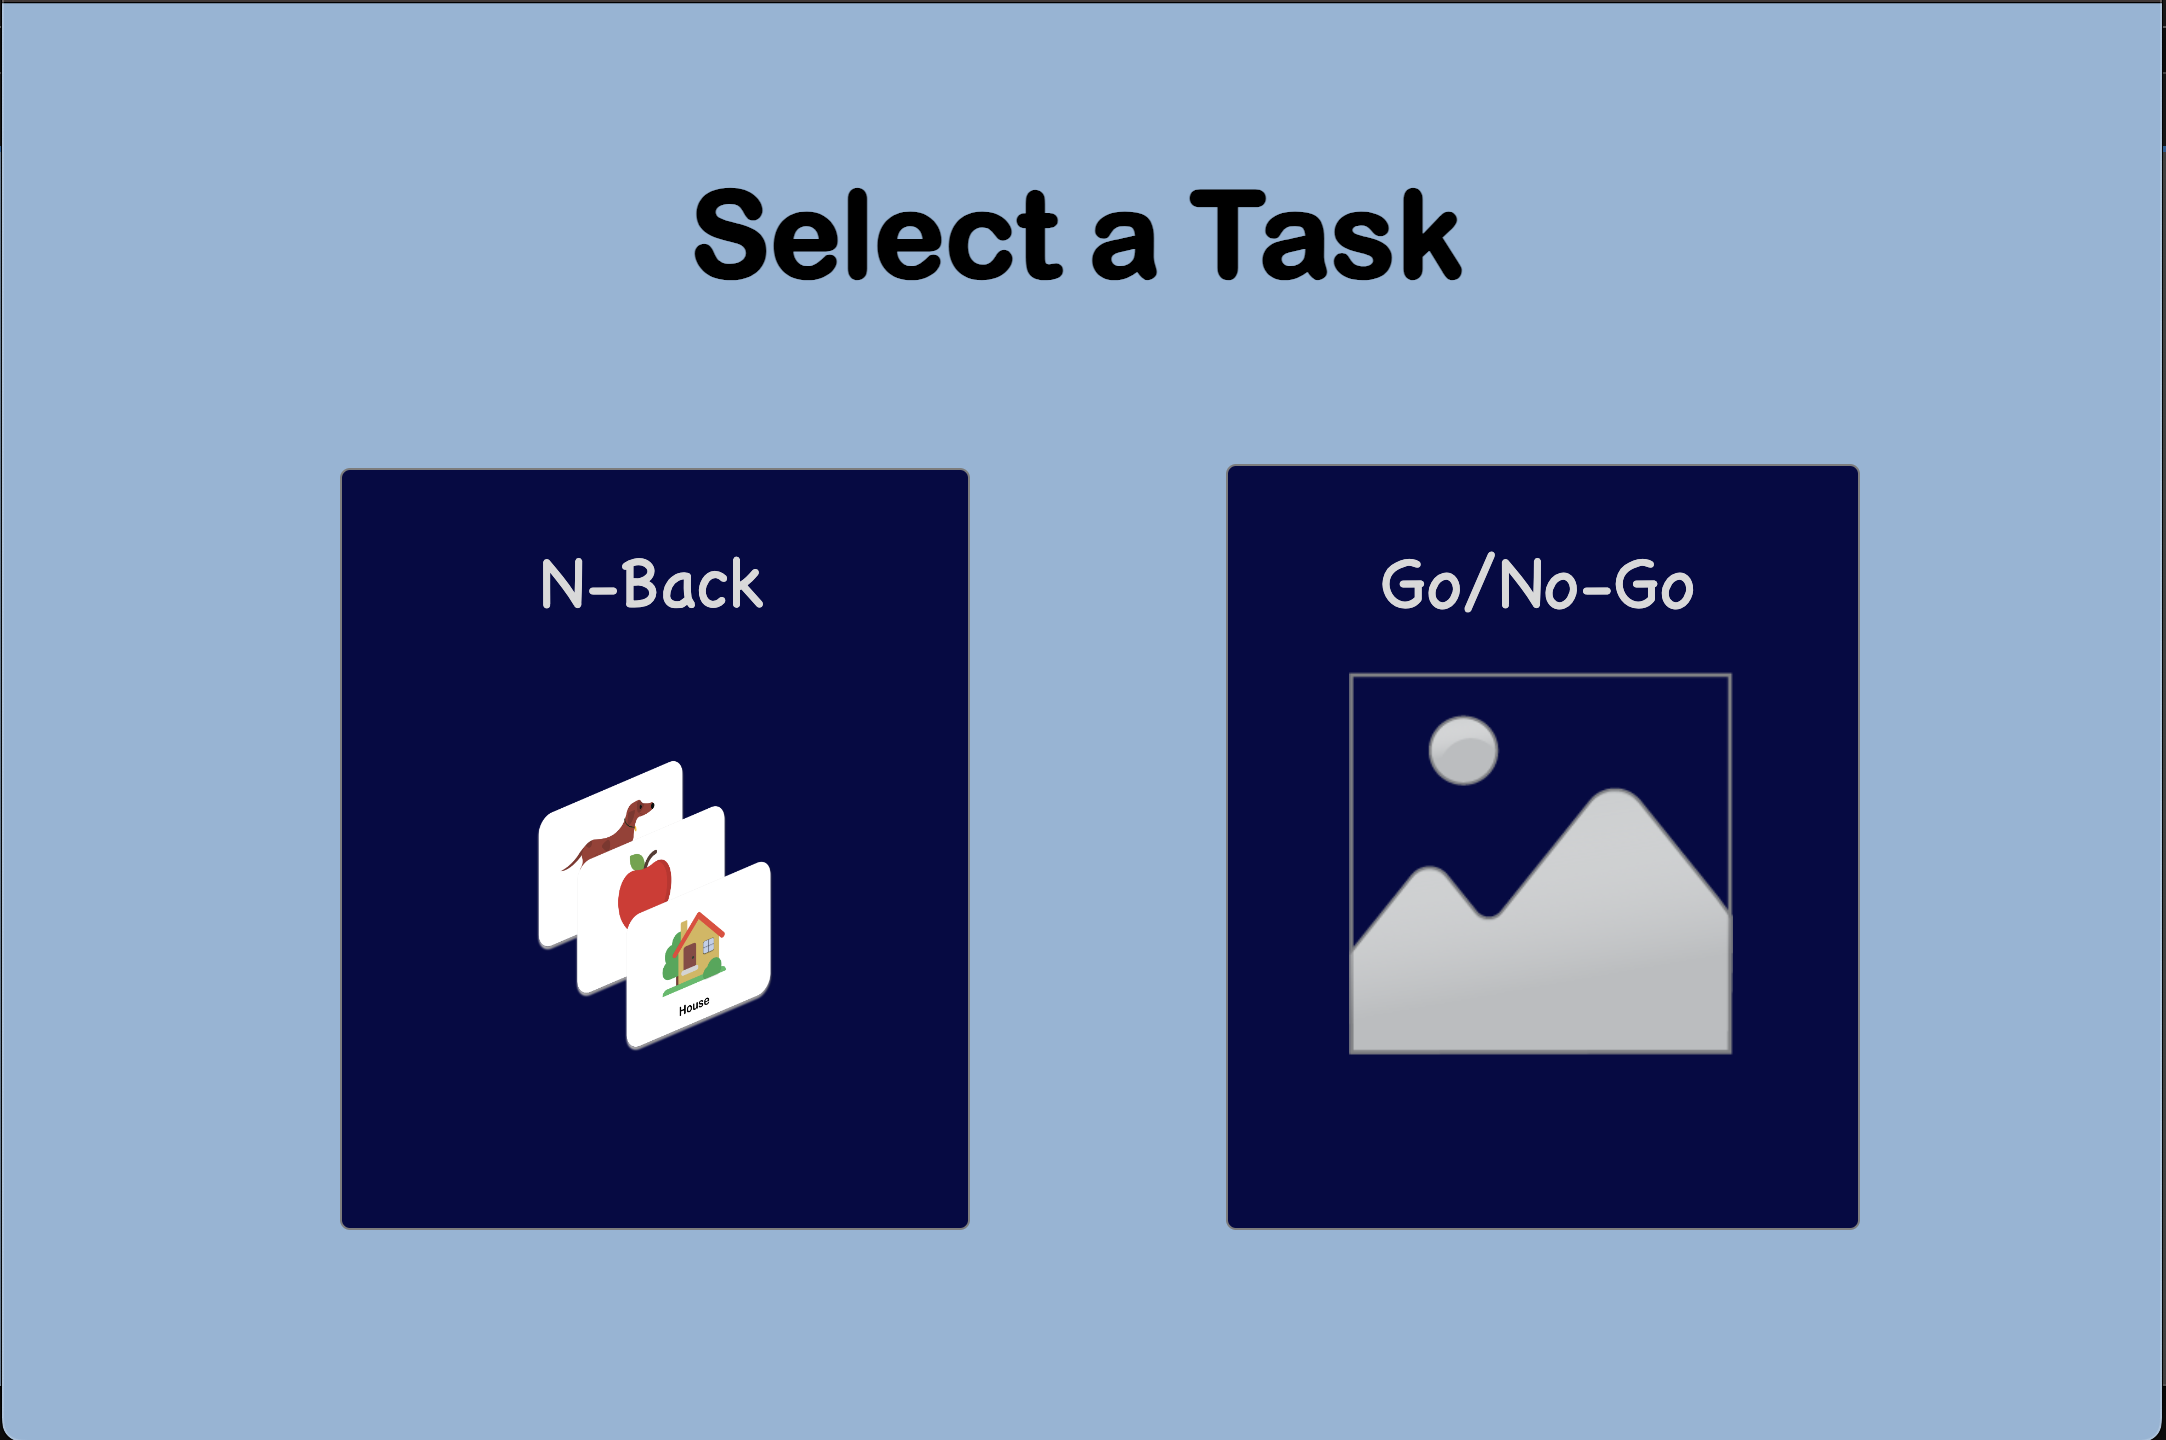
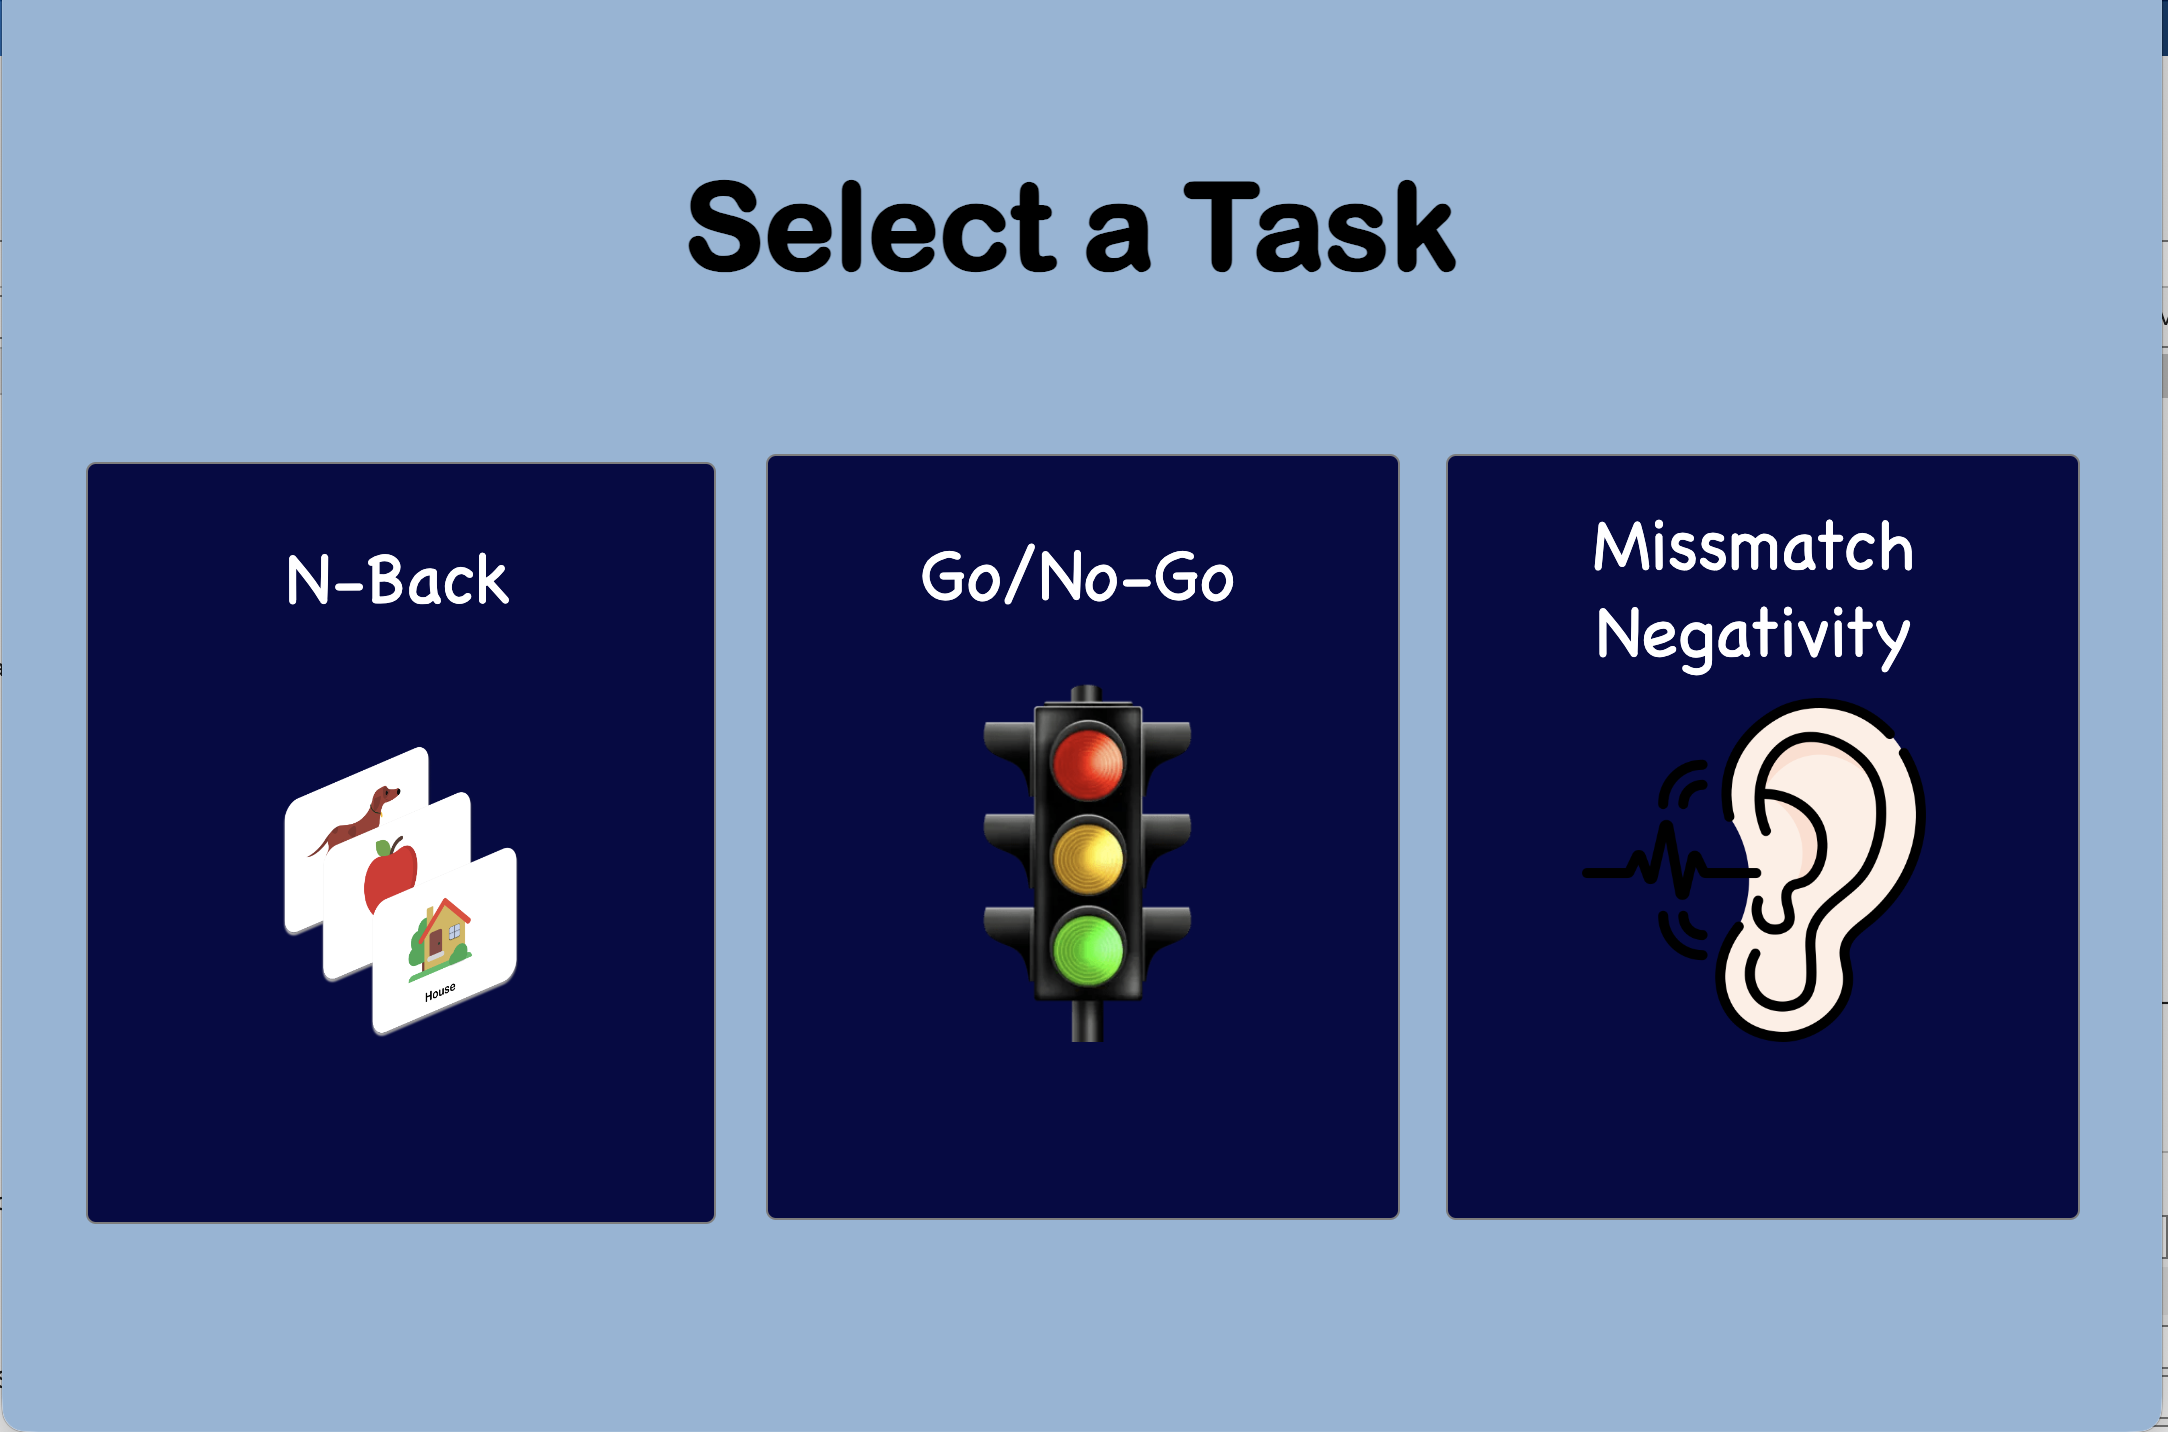
updated with go/nogo

diff --git a/projects.html b/projects.html
@@ -5,7 +5,7 @@
     <meta name="viewport" content="width=device-width, initial-scale=1.0">
     <meta name="description" content="Cognitive Neuroscience GUI Projects">
     <title>Projects - Cognitive Neuroscience GUI</title>
-    <link rel="stylesheet" href="styles.css">
+    <link rel="stylesheet" href="styles.css?v=2">
 </head>
 <body>
     <header>
@@ -60,7 +60,7 @@
             </div>
         </section>
 
-<section class="content" id="nback-section">
+        <section class="content" id="nback-section">
             <h2>N-Back Test (Complete)</h2>
             <p>A working memory experiment using a series of visual stimuli (flashcards). Participants indicate when the current stimulus matches the one shown <em>N</em> items back in the sequence.</p>
 
@@ -91,37 +91,47 @@
                 </ul>
             </div>
 
-        <p><span class="status-btn active">✅ Fully Functional</span></p>
+            <p><span class="status-btn active">✅ Fully Functional</span></p>
         </section>
 
-<section class="content" id="gonogo-section">
-            <h2>Go/No-Go Test (In Development)</h2>
-            <p>A response inhibition task where participants respond to "Go" signals and withhold response to "No-Go" signals, similar to the game Simon Says.</p>
+        <section class="content" id="gonogo-section">
+            <h2>Go/No-Go Test (Complete)</h2>
+            <p>A response inhibition task inspired by Simon Says, where participants type commands only when preceded by "Simon says" and withhold response when preceded by "Coach Says."</p>
 
             <div class="instructions">
-                <strong>Planned functionality:</strong>
-                <p>Users will see visual cues that indicate either "Go" (respond) or "No-Go" (don't respond). The task measures impulse control and the ability to inhibit automatic responses. This test will follow the same workflow pattern as N-Back, with an instruction screen followed by the testing interface.</p>
+                <strong>How it works:</strong>
+                <p>Users first see an instruction screen explaining the task rules. Then, text commands are presented one at a time. Participants must type the command if it starts with "Simon says" but must not type anything if it starts with "Coach says." This tests impulse control and the ability to inhibit automatic responses.</p>
+            </div>
+
+            <div class="projects-media">
+                <figure>
+                    <img src="images/gonogo1.png" alt="Go/No-Go instructions screen">
+                    <figcaption>Go/No-Go Instructions: Task rules and how to respond to "Simon says" vs "Coach says" commands</figcaption>
+                </figure>
+                <figure>
+                    <img src="images/gonogo2.png" alt="Go/No-Go test interface">
+                    <figcaption>Go/No-Go Test Interface: Command display with text input for "Simon says" responses</figcaption>
+                </figure>
             </div>
 
             <div class="project-details">
-                <h4>Development Roadmap</h4>
+                <h4>Implementation Details</h4>
                 <ul>
-                    <li>Design Go and No-Go visual stimuli</li>
-                    <li>Implement response timing mechanisms</li>
-                    <li>Create instruction screen similar to N-Back format</li>
-                    <li>Add difficulty levels with varying Go/No-Go ratios</li>
-                    <li>Integrate with main task selection dashboard</li>
-                    <li>Test timing precision for research standards</li>
+                    <li><strong>Task Format:</strong> Simon Says style game with "Simon says" (Go) and "Coach says" (No-Go) cues</li>
+                    <li><strong>Response Method:</strong> Text input for Go trials, no response for No-Go trials</li>
+                    <li><strong>Cognitive Measure:</strong> Tests response inhibition and impulse control</li>
+                    <li><strong>User Interface:</strong> Clear command display with text input field and progress tracking</li>
+                    <li><strong>Instructions:</strong> Comprehensive instruction screen explaining game rules before test begins</li>
                 </ul>
             </div>
 
-    <p><span class="status planning">🚧 In Progress</span></p>
+            <p><span class="status-btn active">✅ Fully Functional</span></p>
         </section>
 
         <section class="content">
             <h2>Technical Notes</h2>
             <div class="project-details">
-            <p>Both tests are implemented in MATLAB to ensure integrations with EEG equipment.</p>
+                <p>Both tests are implemented in MATLAB to ensure integrations with EEG equipment.</p>
             </div>
         </section>
     </main>

diff --git a/index.html b/index.html
@@ -64,11 +64,11 @@
                         <a href="projects.html#nback-section" class="status active status-link" aria-label="View N-Back details on Projects page">Active & Complete</a>
                     </div>
 
-                    <div class="task-card">
+                    <div class="task-card" onclick="showPage('gonogo')">
                         <div class="task-icon">🎯</div>
                         <h3>Go/No-Go Test</h3>
                         <p class="task-description">Measure response inhibition and impulse control with signal-based task.</p>
-                        <a href="projects.html#gonogo-section" class="status planning status-link" aria-label="View Go/No-Go details on Projects page">In Development</a>
+                        <a href="projects.html#gonogo-section" class="status active status-link" aria-label="View Go/No-Go details on Projects page">Active & Complete</a>
                     </div>
                 </div>
             </section>
